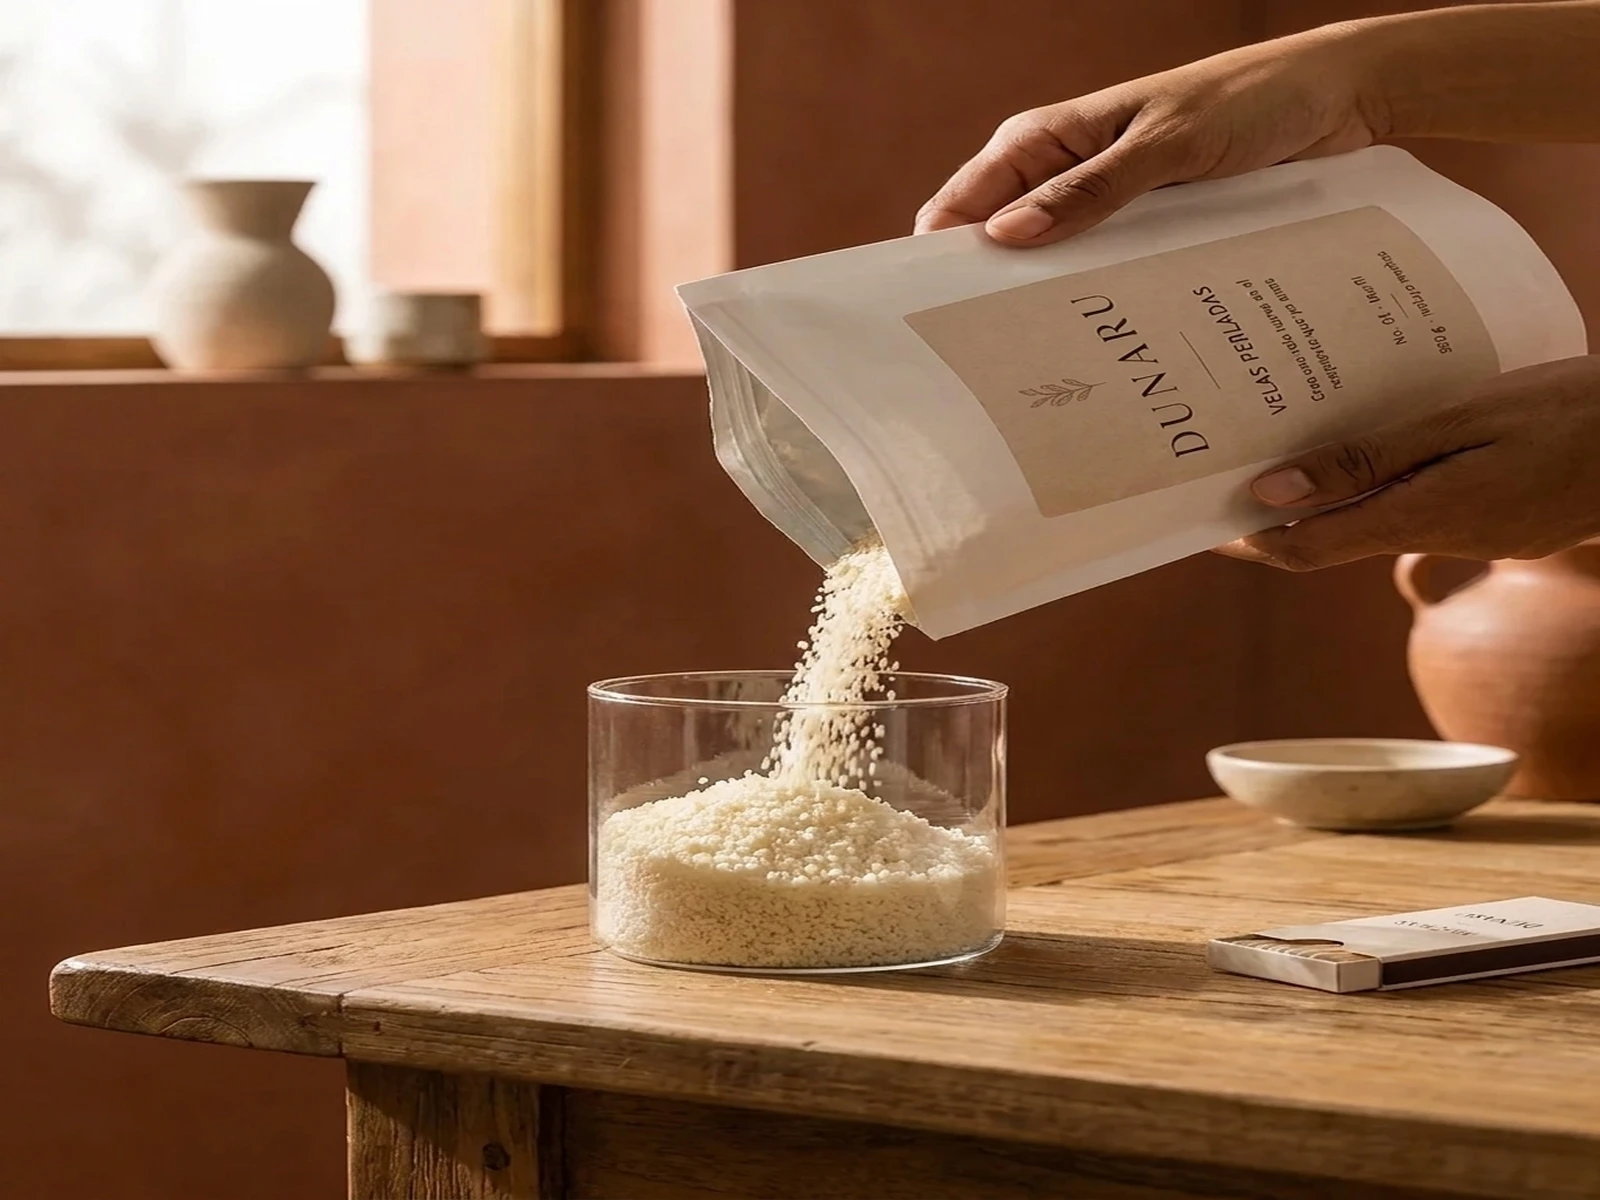
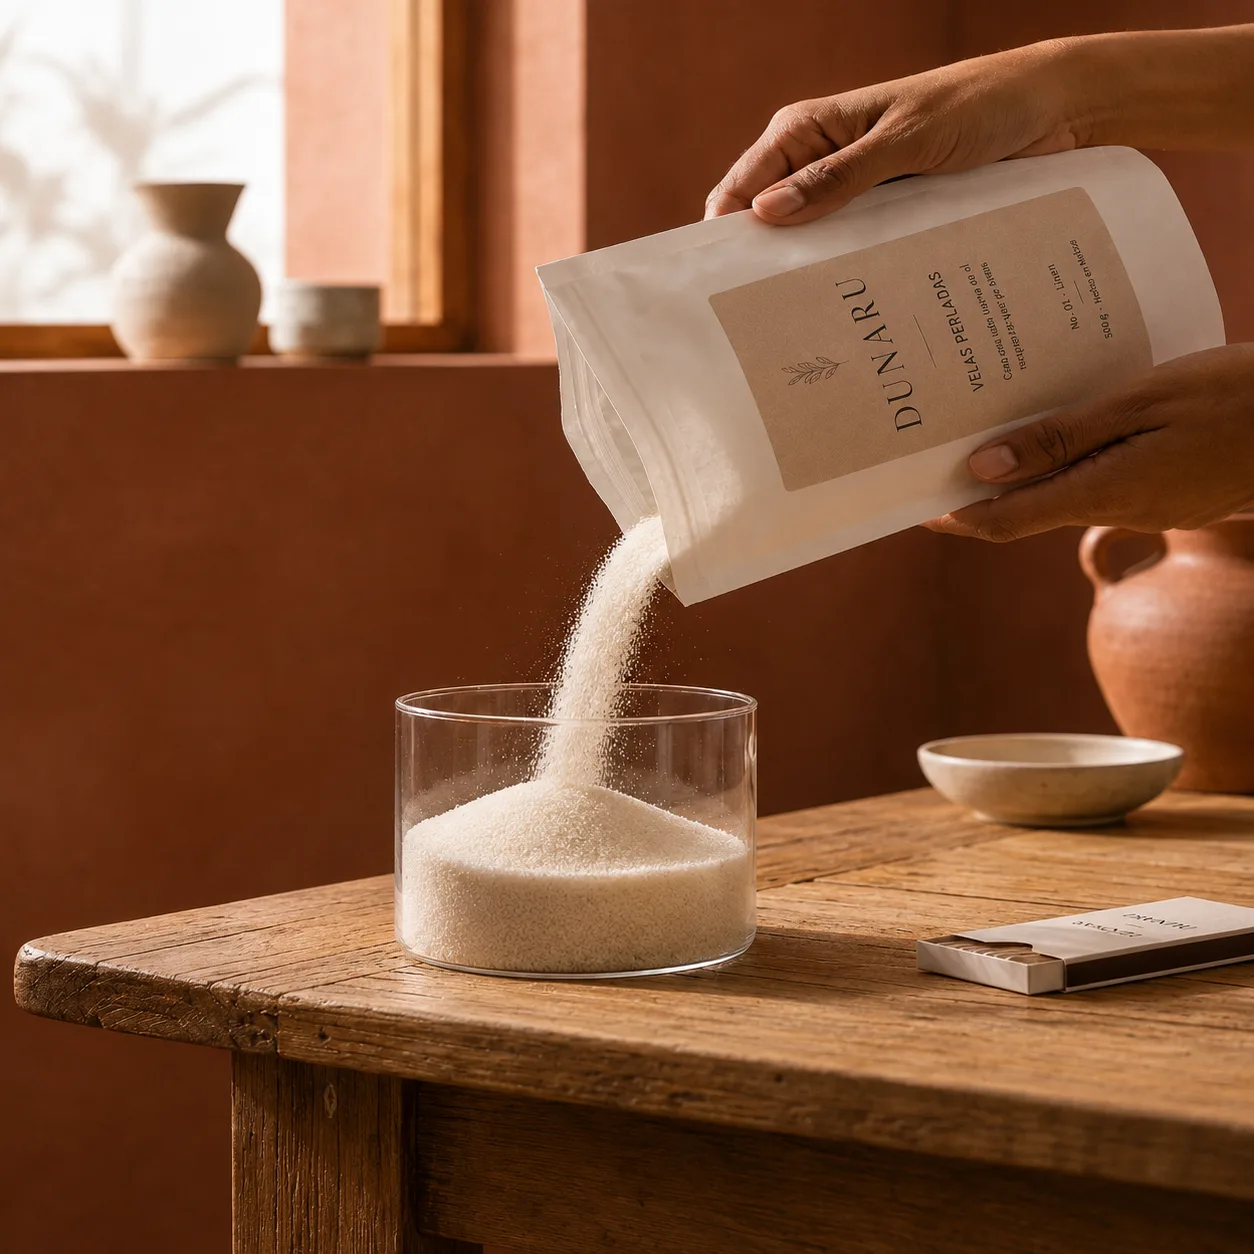
AI: Updated 1 component(s)

diff --git a/src/components/ProductStorySections.tsx b/src/components/ProductStorySections.tsx
@@ -60,6 +60,56 @@ interface PdpContent {
 
 const PLACEHOLDER = "/placeholder.svg"
 
+/**
+ * Bloques de beneficios "estrella" (los de Perlas Originales).
+ * Compartidos con Reserva 1kg, Dúo y Trío de Tonos para máxima consistencia.
+ */
+const PERLAS_BENEFIT_BLOCKS: StoryBlock[] = [
+  {
+    title: "Siempre luce como el primer día",
+    body: "Las velas de siempre se deforman, dejan cera pegada y acaban en la basura. Tu vela dunaru **nunca envejece**: se consume, la vacías, la limpias y empieza de cero.",
+    bullets: [
+      "Cero cera pegada ni recipientes manchados",
+      "Cambia de recipiente cuando se te antoje",
+      "Una sola compra, luz por años",
+    ],
+    image: "https://ptgmltivisbtvmoxwnhd.supabase.co/storage/v1/object/public/message-images/58337cbc-5a9f-4862-810a-1470616566de/1784141750637-h29qq6dodik.webp",
+    photo: true,
+  },
+  {
+    title: "El recipiente que ya amas, ahora da luz",
+    body: "Ese tazón de cerámica, el vaso de vidrio o el cuenco de concreto que tanto te gusta **pasa a ser una vela de diseño**. Tú eliges el estilo, nosotros ponemos la luz.",
+    bullets: [
+      "Funciona en cualquier recipiente de +10 cm",
+      "Combina colores y texturas a tu gusto",
+    ],
+    image: "https://ptgmltivisbtvmoxwnhd.supabase.co/storage/v1/object/public/message-images/58337cbc-5a9f-4862-810a-1470616566de/1784141750638-4z1j2dq3ab9.webp",
+    photo: true,
+    flip: true,
+  },
+  {
+    title: "Se cae y no pasa nada",
+    body: "Al ser perlas de cera, un golpe **no significa cera caliente encima ni manchas imposibles**. Las recoges y sigues. Pensadas para casas con vida, niños y mascotas.",
+    bullets: [
+      "Mucho menos riesgo que una vela común",
+      "Se recogen y se vuelven a usar",
+    ],
+    image: "https://ptgmltivisbtvmoxwnhd.supabase.co/storage/v1/object/public/message-images/58337cbc-5a9f-4862-810a-1470616566de/1784141750638-go7315yuax.webp",
+    photo: true,
+  },
+  {
+    title: "Recarga en vez de tirar",
+    body: "Cada vela común termina en el bote de basura. Con dunaru **rellenas las veces que quieras**: menos desperdicio, más ahorro y la misma luz cálida de siempre.",
+    bullets: [
+      "Rellenable con cualquier bolsa de perlas",
+      "Menos residuos, una decisión más consciente",
+    ],
+    image: "https://ptgmltivisbtvmoxwnhd.supabase.co/storage/v1/object/public/message-images/58337cbc-5a9f-4862-810a-1470616566de/1784141750638-c47lrhv7fa.webp",
+    photo: true,
+    flip: true,
+  },
+]
+
 const PDP_CONTENT: Record<string, PdpContent> = {
   "perlas-originales-500-g": {
     steps: [
@@ -84,51 +134,7 @@ const PDP_CONTENT: Record<string, PdpContent> = {
         image: PLACEHOLDER,
       },
     ],
-    blocks: [
-      {
-        title: "Siempre luce como el primer día",
-        body: "Las velas de siempre se deforman, dejan cera pegada y acaban en la basura. Tu vela dunaru **nunca envejece**: se consume, la vacías, la limpias y empieza de cero.",
-        bullets: [
-          "Cero cera pegada ni recipientes manchados",
-          "Cambia de recipiente cuando se te antoje",
-          "Una sola compra, luz por años",
-        ],
-        image: "https://ptgmltivisbtvmoxwnhd.supabase.co/storage/v1/object/public/message-images/58337cbc-5a9f-4862-810a-1470616566de/1784141750637-h29qq6dodik.webp",
-        photo: true,
-      },
-      {
-        title: "El recipiente que ya amas, ahora da luz",
-        body: "Ese tazón de cerámica, el vaso de vidrio o el cuenco de concreto que tanto te gusta **pasa a ser una vela de diseño**. Tú eliges el estilo, nosotros ponemos la luz.",
-        bullets: [
-          "Funciona en cualquier recipiente de +10 cm",
-          "Combina colores y texturas a tu gusto",
-        ],
-        image: "https://ptgmltivisbtvmoxwnhd.supabase.co/storage/v1/object/public/message-images/58337cbc-5a9f-4862-810a-1470616566de/1784141750638-4z1j2dq3ab9.webp",
-        photo: true,
-        flip: true,
-      },
-      {
-        title: "Se cae y no pasa nada",
-        body: "Al ser perlas de cera, un golpe **no significa cera caliente encima ni manchas imposibles**. Las recoges y sigues. Pensadas para casas con vida, niños y mascotas.",
-        bullets: [
-          "Mucho menos riesgo que una vela común",
-          "Se recogen y se vuelven a usar",
-        ],
-        image: "https://ptgmltivisbtvmoxwnhd.supabase.co/storage/v1/object/public/message-images/58337cbc-5a9f-4862-810a-1470616566de/1784141750638-go7315yuax.webp",
-        photo: true,
-      },
-      {
-        title: "Recarga en vez de tirar",
-        body: "Cada vela común termina en el bote de basura. Con dunaru **rellenas las veces que quieras**: menos desperdicio, más ahorro y la misma luz cálida de siempre.",
-        bullets: [
-          "Rellenable con cualquier bolsa de perlas",
-          "Menos residuos, una decisión más consciente",
-        ],
-        image: "https://ptgmltivisbtvmoxwnhd.supabase.co/storage/v1/object/public/message-images/58337cbc-5a9f-4862-810a-1470616566de/1784141750638-c47lrhv7fa.webp",
-        photo: true,
-        flip: true,
-      },
-    ],
+    blocks: PERLAS_BENEFIT_BLOCKS,
     compareRows: [
       { label: "Rellenable infinitamente", dunaru: true, traditional: false },
       { label: "Sin desperdicio ni cera pegada", dunaru: true, traditional: false },
@@ -346,30 +352,7 @@ const PDP_CONTENT: Record<string, PdpContent> = {
   },
 
   "reserva-1-kg": {
-    blocks: [
-      {
-        title: "El doble de luz, el mismo recipiente",
-        body: "1 kg de perlas de cera perlada: **el doble de duración** para quien ya ama dunaru. Llena recipientes más grandes o mantén varios encendidos a la vez, sin quedarte corto.",
-        bullets: [
-          "1 kg de perlas + 30 mechas de algodón",
-          "Rinde el doble que la bolsa original",
-          "Envío gratis a todo México",
-        ],
-        image: "/casa-real-sala.webp",
-        photo: true,
-      },
-      {
-        title: "Compra una vez, rellena para siempre",
-        body: "Cuando las perlas se consumen **no tiras nada**: solo vacías, vuelves a llenar tu recipiente y colocas una mecha nueva. La misma luz cálida, una y otra vez.",
-        bullets: [
-          "Rellenable en cualquier recipiente de +10 cm",
-          "Menos desperdicio, más ahorro",
-        ],
-        image: "/casa-real-comedor.webp",
-        photo: true,
-        flip: true,
-      },
-    ],
+    blocks: PERLAS_BENEFIT_BLOCKS,
     compareRows: [
       { label: "El doble de duración", dunaru: true, traditional: false },
       { label: "Rellenable infinitamente", dunaru: true, traditional: false },
@@ -398,30 +381,7 @@ const PDP_CONTENT: Record<string, PdpContent> = {
   },
 
   "d-o-de-tonos": {
-    blocks: [
-      {
-        title: "Dos tonos para combinar a tu gusto",
-        body: "Dos bolsas de 500 g en los colores que elijas: **combina, alterna o llena dos recipientes a la vez**. Marfil, Champagne u Ónix para crear el ambiente que se te antoje.",
-        bullets: [
-          "2 bolsas de 500 g + 60 mechas incluidas",
-          "Elige los tonos que más te gusten",
-          "Envío gratis a todo México",
-        ],
-        image: "/casa-real-recibidor.webp",
-        photo: true,
-      },
-      {
-        title: "Más valor que comprar por separado",
-        body: "El Dúo de Tonos te da **más perlas por menos**: perfecto para tu casa o para regalar. Una compra, luz para mucho tiempo en más de un rincón.",
-        bullets: [
-          "Ahorras frente a comprar dos bolsas sueltas",
-          "Rellenable infinitamente en tus recipientes",
-        ],
-        image: "/casa-real-sala.webp",
-        photo: true,
-        flip: true,
-      },
-    ],
+    blocks: PERLAS_BENEFIT_BLOCKS,
     compareRows: [
       { label: "Dos tonos para combinar", dunaru: true, traditional: false },
       { label: "Mejor precio que por separado", dunaru: true, traditional: false },
@@ -450,30 +410,7 @@ const PDP_CONTENT: Record<string, PdpContent> = {
   },
 
   "tr-o-de-tonos": {
-    blocks: [
-      {
-        title: "La colección completa, el mejor valor",
-        body: "Tres bolsas de 500 g, tres colores: **Marfil, Champagne y Ónix juntos**. La forma más completa de vivir dunaru y nuestro mejor precio por gramo.",
-        bullets: [
-          "3 bolsas de 500 g + 60 mechas incluidas",
-          "Los tres tonos de la colección",
-          "El mejor valor dunaru · envío gratis",
-        ],
-        image: "/casa-real-sala.webp",
-        photo: true,
-      },
-      {
-        title: "Un tono para cada momento",
-        body: "Cambia el ambiente según el día: **el marfil cálido, el champagne elegante, el ónix dramático**. Con el Trío tienes luz de diseño para toda la casa y para regalar.",
-        bullets: [
-          "Combina y alterna cuando quieras",
-          "Rellenable infinitamente en tus recipientes",
-        ],
-        image: "/casa-real-comedor.webp",
-        photo: true,
-        flip: true,
-      },
-    ],
+    blocks: PERLAS_BENEFIT_BLOCKS,
     compareRows: [
       { label: "Los tres tonos de la colección", dunaru: true, traditional: false },
       { label: "El mejor precio por gramo", dunaru: true, traditional: false },

diff --git a/.lovivo/plan.md b/.lovivo/plan.md
@@ -27,12 +27,15 @@
 - Estética: editorial, mínima, mucho aire. Mobile-first.
 - **MENÚ "Productos"**: dropdown en header (`EcommerceTemplate.tsx`) con `PRODUCT_CATEGORIES` → Todos / Kits / Accesorios / Recipientes. Desktop = hover `group` panel; móvil = sección con label.
 - **PDP secciones** (`ProductStorySections.tsx`): driven por `PDP_CONTENT[slug]`. Esquema fijo: garantías → "Crea tu vela en 4 pasos" (HOW_IT_WORKS_STEPS compartido) → bloques editoriales → "Esto hace diferente a dunaru" (tabla) → "Preguntas frecuentes" → "Opiniones de quienes ya la tienen" (Reviews). `steps` en el config es OPCIONAL y NO se renderiza (usa HOW_IT_WORKS_STEPS). Bloques con `photo:true` usan object-cover.
+- **`PERLAS_BENEFIT_BLOCKS`** (const compartida en ProductStorySections.tsx): los 4 bloques de beneficios de Perlas Originales. Usada por perlas-originales-500-g, reserva-1-kg, d-o-de-tonos, tr-o-de-tonos. Editar aquí = cambia en los 4.
 - **Categoría landing** (`src/pages/Collection.tsx`): grid 2/3 cols de ProductCard, header centrado con nombre+descripción, empty/notFound states, SEO. handle `todos` = todos los productos activos.
 
 ## 3. Active Plan — ✅ Sin plan activo.
 
 ## 4. Recent Changes
-- 2026-07-27 — ✅ IMÁGENES PDP (fotos reales user): bowl-negro "Un recipiente más para otro rincón" → yafqxd2xr9i. vaso-extra-transparente "Combina con cualquier decoración" → wovmtpzn66. kit-vaso-de-concreto: "Un objeto de diseño que da luz" → i54i3sm6qk, "Por qué concreto"→"Por qué cerámica" (texto concreto→cerámica) + u6xju9w4wjl, "El regalo que se nota" → 77nbrytmoii. Todos con photo:true. Ya NO quedan PLACEHOLDER en PDP.
+- 2026-07-27 — ✅ PASO "Vierte": nueva foto real del user (arena de cera vertiéndose en vaso) descargada a `public/paso-vierte.webp` (sobrescrita). Aplica a los 4 pasos de TODAS las PDP + "Quiénes somos" (mismo archivo compartido).
+- 2026-07-27 — ✅ BENEFICIOS COMPARTIDOS: extraídos los 4 bloques de perlas a const `PERLAS_BENEFIT_BLOCKS`. Ahora reserva-1-kg, d-o-de-tonos y tr-o-de-tonos usan los mismos beneficios+imágenes que Perlas Originales (antes tenían bloques propios de "casa-real").
+- 2026-07-27 — ✅ IMÁGENES PDP (fotos reales user): bowl-negro "Un recipiente más para otro rincón" → yafqxd2xr9i. vaso-extra-transparente "Combina con cualquier decoración" → wovmtpzn66. kit-vaso-de-concreto: "Un objeto de diseño que da luz" → i54i3sm6qk, "Por qué concreto"→"Por qué cerámica" (texto concreto→cerámica) + u6xju9w4wjl, "El regalo que se nota" → 77nbrytmoii. Todos con photo:true.
 - 2026-07-25 — ✅ IMÁGENES PDP: kit-vaso-de-vidrio "Tu vaso, también cuando no es vela" → `/pdp-vaso-decor.webp`. bowl-negro "Objeto de diseño…" → `/pdp-bowl-decor.webp`. pack-30-mechas "Para nunca quedarte sin luz" → foto real user.
 - 2026-07-25 — ✅ MENÚ "Productos": dropdown desktop + móvil en `EcommerceTemplate.tsx` con 4 categorías (`/categorias/:handle`).
 - 2026-07-25 — ✅ Nueva página `src/pages/Collection.tsx` + ruta `/categorias/:handle` en App.tsx. `todos` = catálogo completo.
@@ -44,15 +47,14 @@
 - 2026-07-17 — ✅ FAVICON de marca `/favicon.png`.
 - 2026-07-17 — ✅ Checkout UI: resumen móvil abierto, slots StripePayment, prueba social REAL 4.9/15.
 - 2026-07-17 — ✅ CONVERSIÓN PDP: MSI + reaseguros ETA + garantía + rating champagne barra sticky.
-- 2026-07-17 — ✅ FIX HERO MÓVIL: imagen vertical `/hero-dunaru-mobile.webp`.
-- 2026-07-16 — ✅ RESEÑAS REALES LIVE: `src/data/reviews.ts` (15 reseñas). 4.9/15.
-- 2026-07-16 — ✅ FIX PDP sticky bar + carrusel móvil.
 
 ## 5. Image Inventory
 - **Colecciones**: sin imagen asignada (Kits/Accesorios/Recipientes image=null). Opcional: generar banners.
 - **FAVICON**: `/favicon.png` (256x256). Viejo `public/favicon.svg` huérfano.
 - **FOTOS REALES catálogo**: `product-images/products/<hash>.webp`. 9 productos.
 - **Hero desktop**: `/hero-dunaru.webp` · **Hero móvil**: `/hero-dunaru-mobile.webp` · **Casa real**: `/casa-real-{sala,comedor,recibidor}.webp` · **4 pasos**: `/paso-{vierte,inserta,enciende,renueva}.webp`.
+- **`/paso-vierte.webp`** (actualizado 2026-07-27): foto real user de arena de cera vertiéndose en vaso de vidrio. Compartido por 4-pasos PDP + "Quiénes somos".
+- **`PERLAS_BENEFIT_BLOCKS` imgs** (Supabase message-images 1784141750637/750638): h29qq6dodik (siempre nueva), 4z1j2dq3ab9 (recipiente que amas), go7315yuax (se cae), c47lrhv7fa (recarga). Compartidas por perlas/reserva/dúo/trío.
 - **Bloques PDP fotos reales user** (message-images/.../): bowl-negro rincón = `1785182590879-yafqxd2xr9i.webp`. vaso-transparente decor = `1785182590879-wovmtpzn66.webp`. concreto objeto luz = `1785182590879-i54i3sm6qk.webp`. concreto cerámica = `1785182590879-u6xju9w4wjl.webp`. concreto regalo = `1785182590879-77nbrytmoii.webp`. mecha pack = `1785012509487-5bsut1tyt6c.webp`.
 - **Bloques PDP generados** (2026-07-25): `/pdp-vaso-decor.webp`, `/pdp-bowl-decor.webp`.
 - ✅ Ya NO quedan PLACEHOLDER en ninguna PDP.
